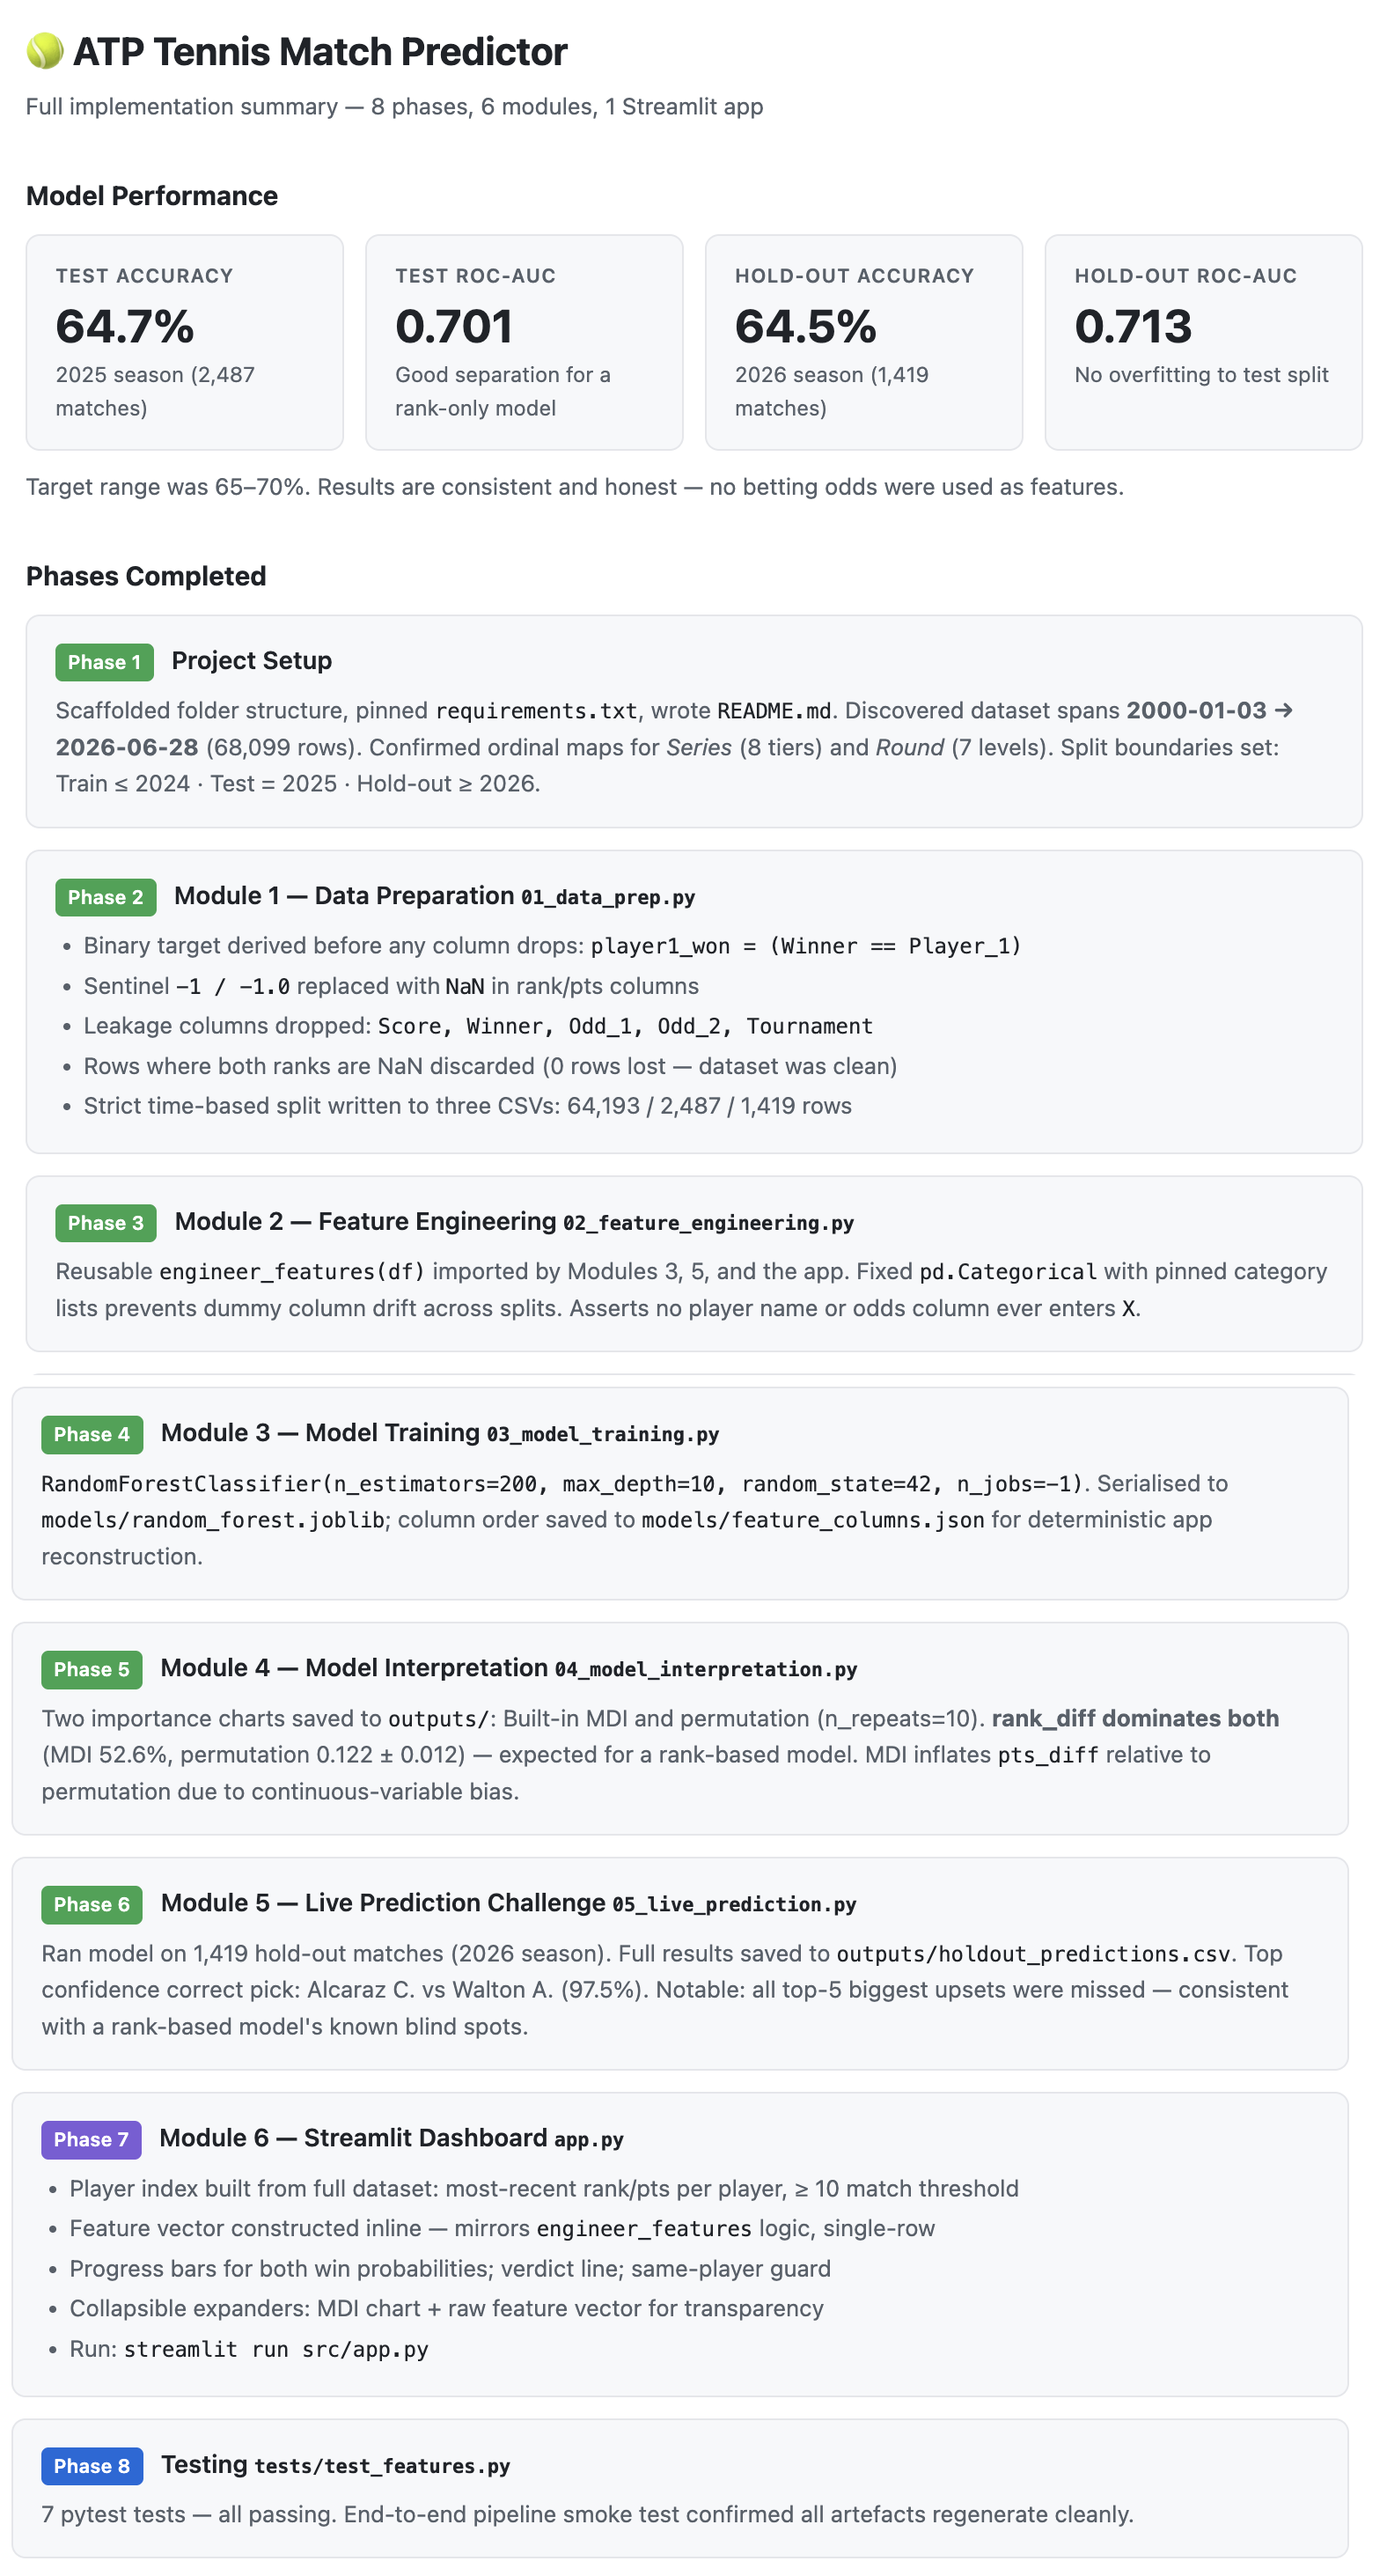
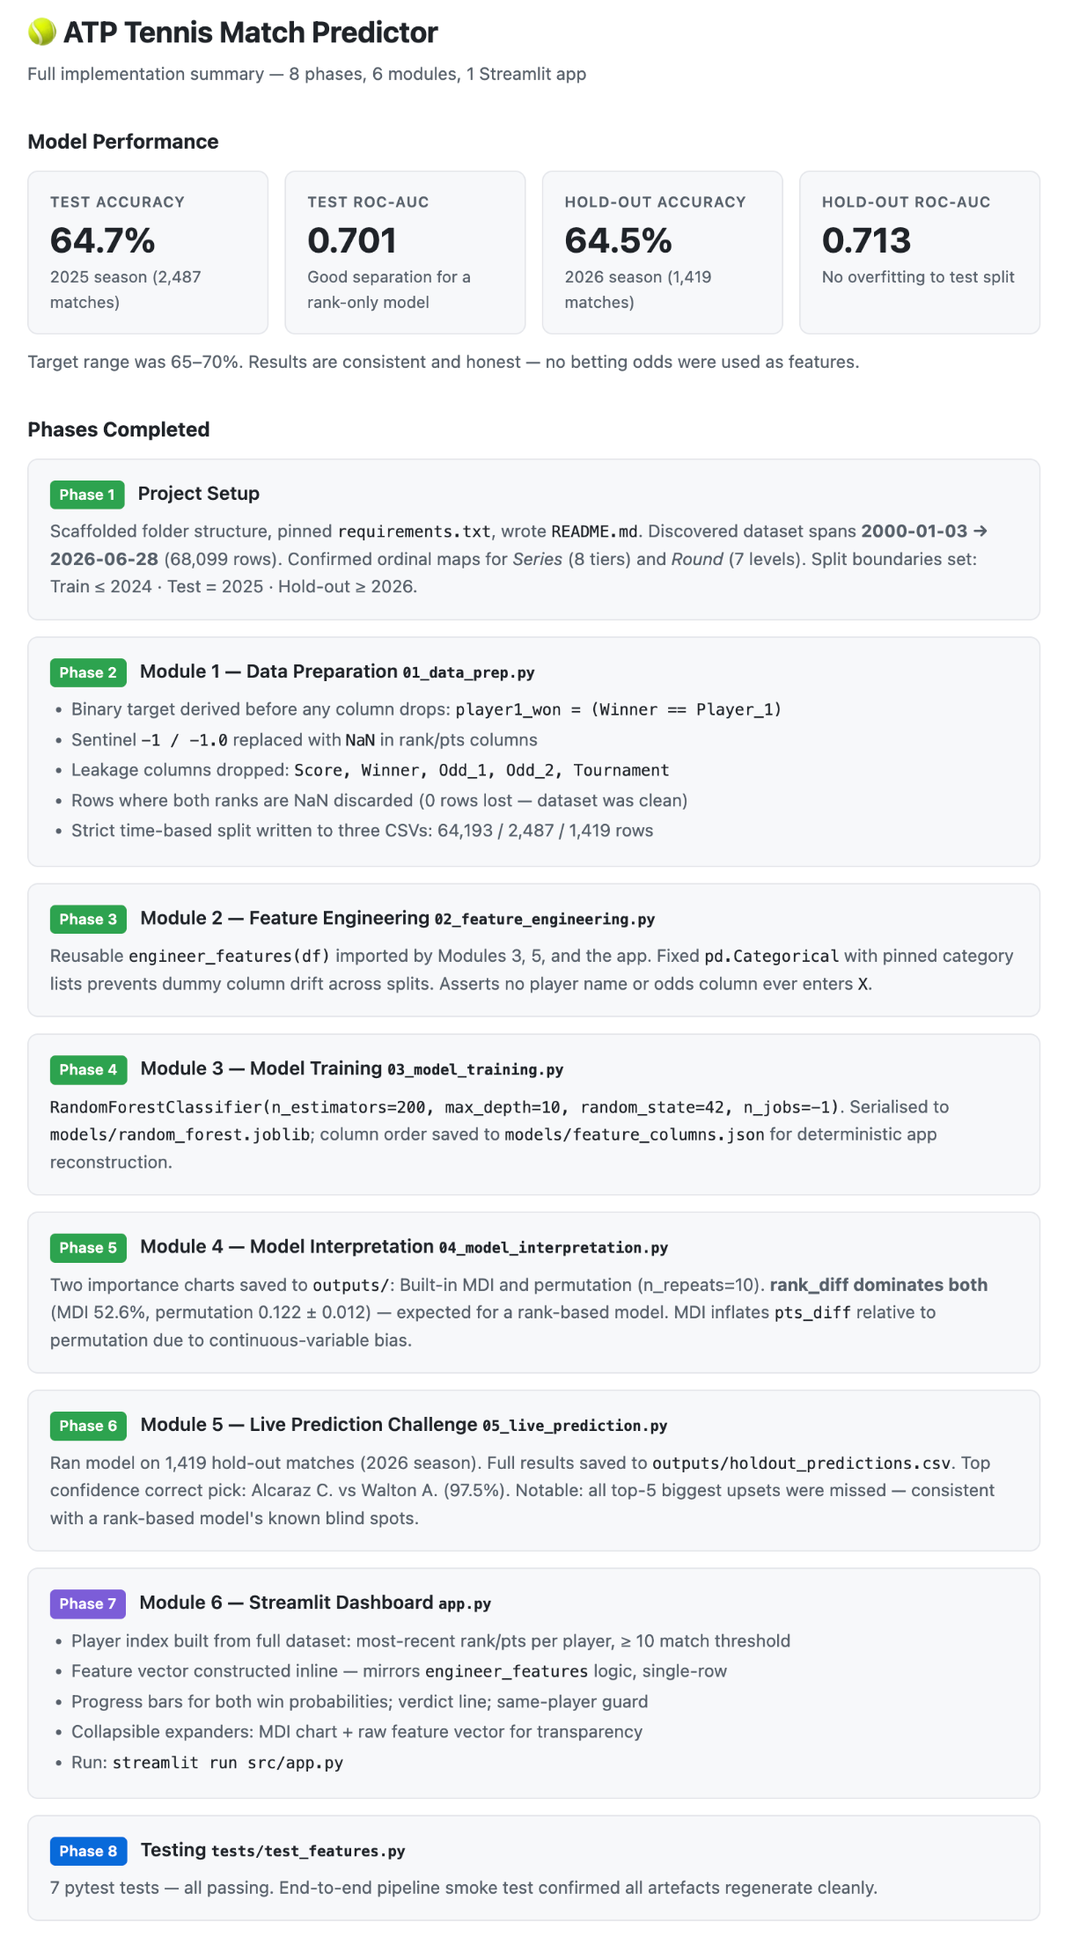
update final summary image

diff --git a/ai-in-sports/tennis/ai-in-sports-tennis.md b/ai-in-sports/tennis/ai-in-sports-tennis.md
@@ -558,7 +558,7 @@ During the testing phase, Bob validates:
 
 Prompt Bob to provide a final summary of the implementation, and review the final completion.
 
-<img src="images/final-summary.png" alt="All phases complete" width="50%">
+<img src="images/final-summary.png" alt="All phases complete">
 
 [Back to the top](#top)
 
